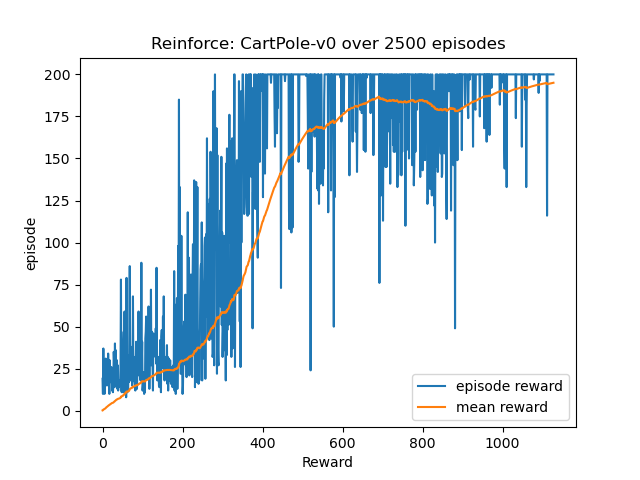
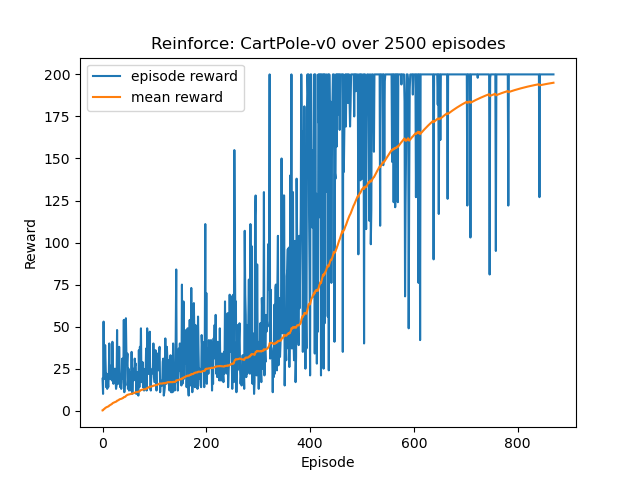
Reinforce cleanup

diff --git a/Reinforce/main.py b/Reinforce/main.py
@@ -20,8 +20,8 @@ parser.add_argument('--max-episode-length', type=int, default=250,
                     help='maximum length of an episode (default: 250)')
 parser.add_argument('--env-name', default='CartPole-v0',
                     help='environment to train on (default: CartPole-v0)')
-parser.add_argument('--hidden-units', default=[12, 128], type=list,
-                    help='hidden units in policy (default: [256,128])')
+parser.add_argument('--hidden-units', default=[12], type=list,
+                    help='hidden units in policy (default: [12])')
 parser.add_argument('--target', default=195, type=int,
                     help='Solved at target (default: 195)')
 
@@ -40,7 +40,7 @@ if __name__ == '__main__':
     plt.title(f"Reinforce: {args.env_name} over {args.num_episodes} episodes")
     plt.plot(episodes, episode_rewards, label="episode reward")
     plt.plot(episodes, mean_rewards, label="mean reward")
-    plt.xlabel("Reward")
-    plt.ylabel("episode")
+    plt.ylabel("Reward")
+    plt.xlabel("Episode")
     plt.legend()
     plt.savefig('plt.png')
